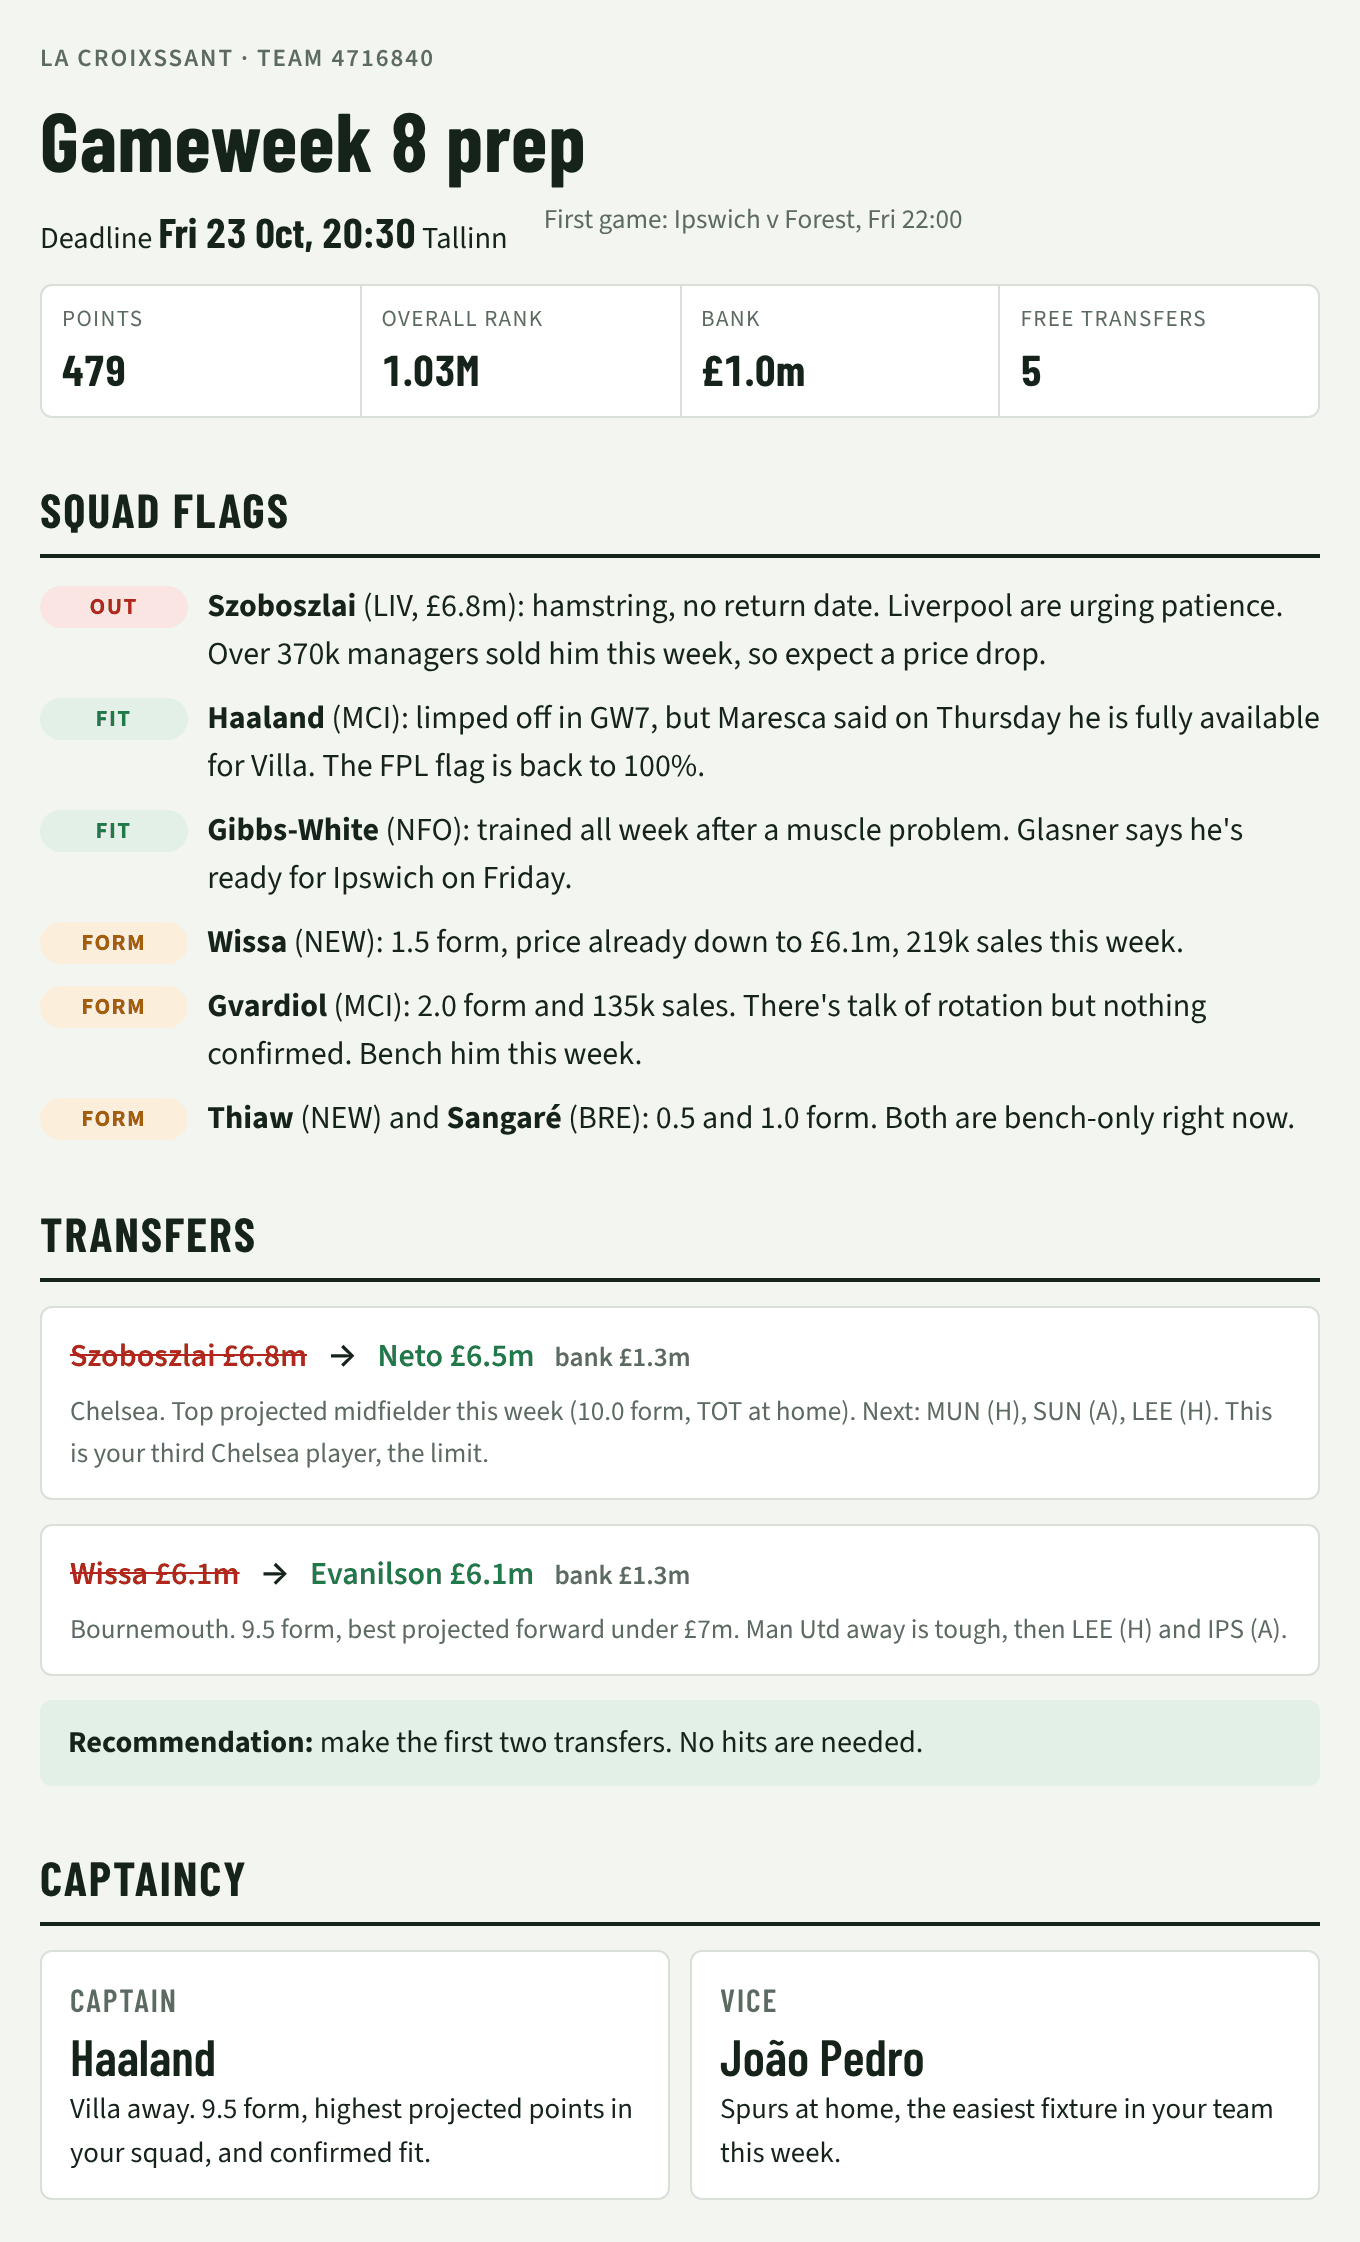
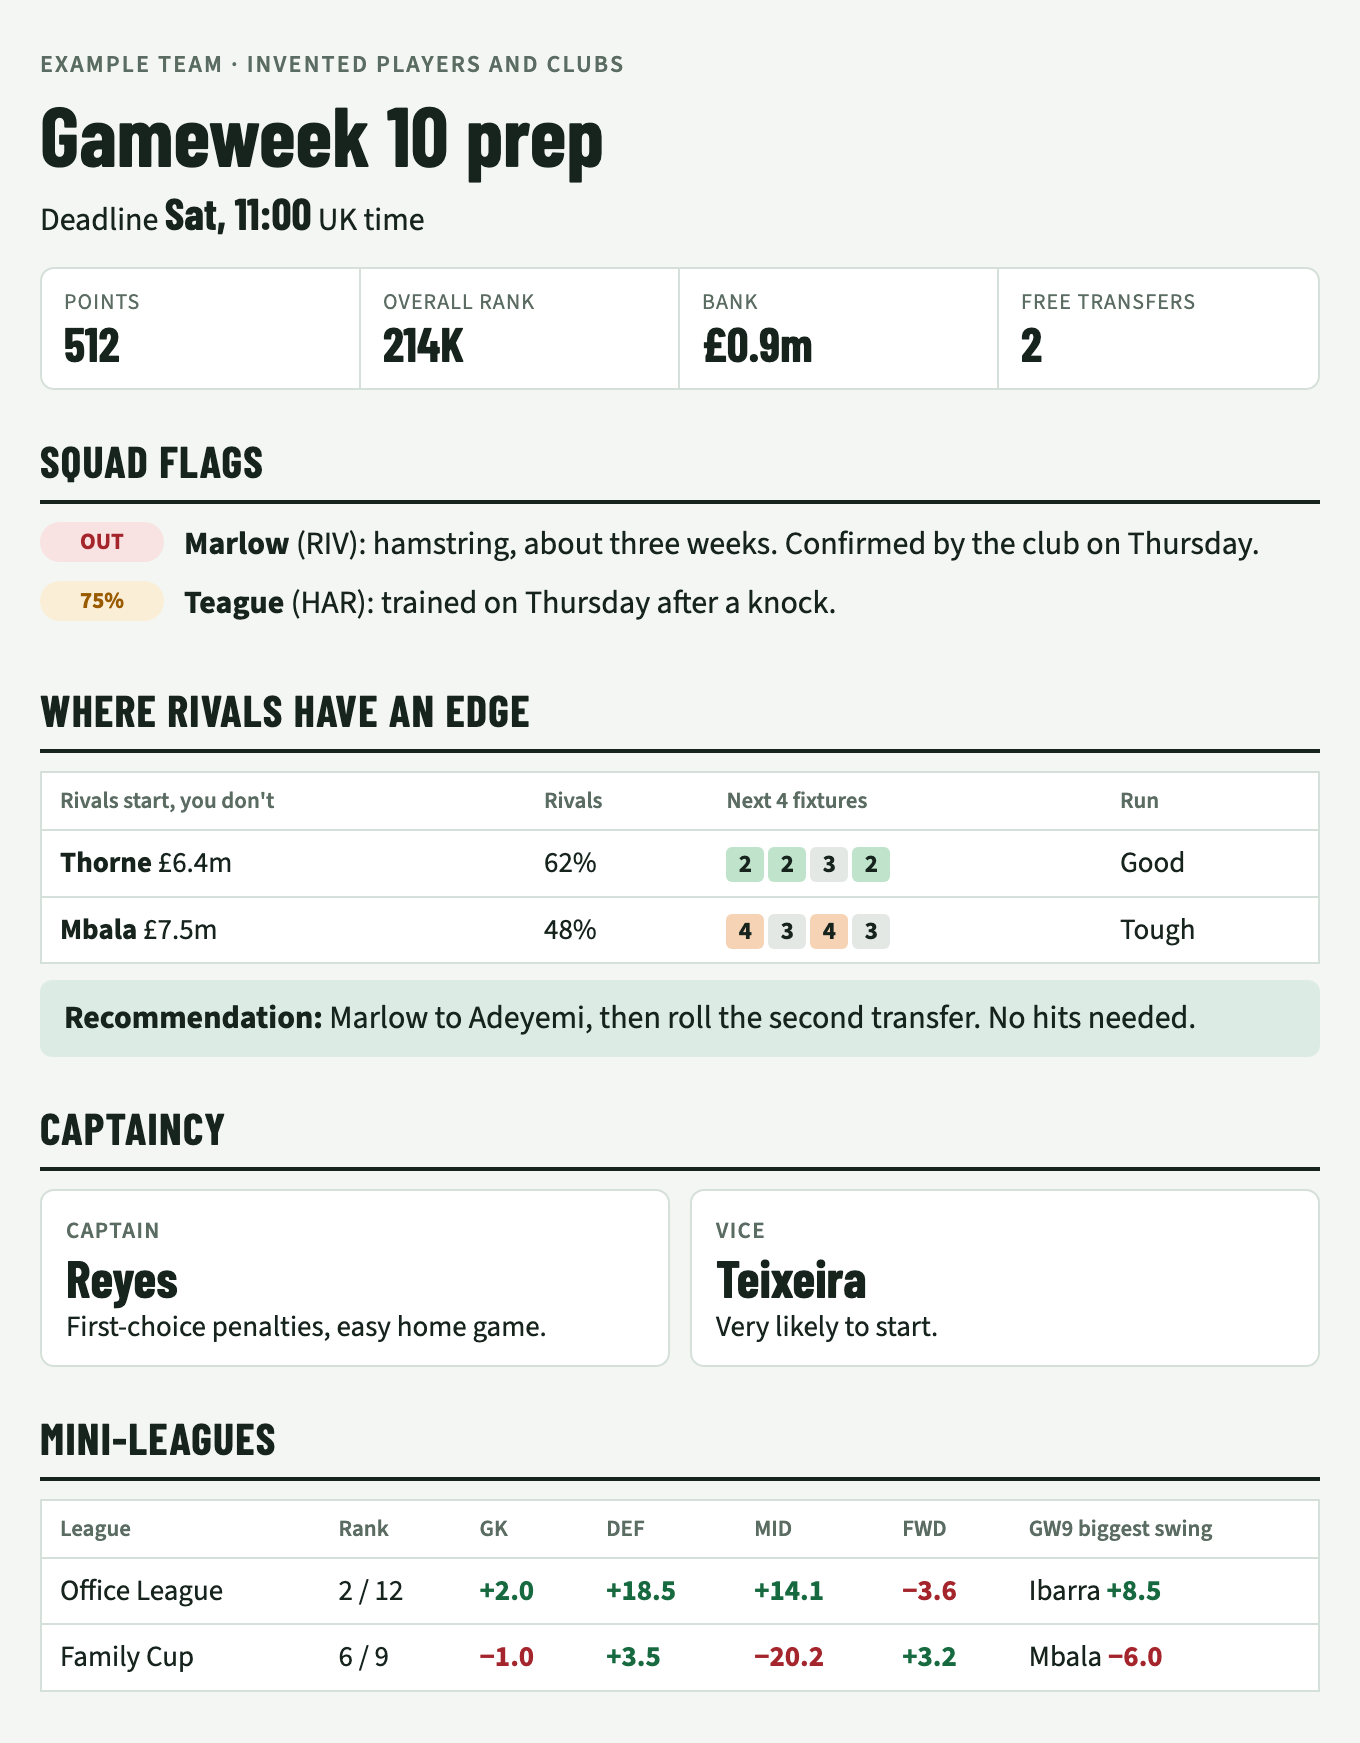
Replace README example image with invented data
The old image showed a real team name and ID, and predated the rival
and mini-league sections.

diff --git a/README.md b/README.md
@@ -2,7 +2,7 @@
 
 A Claude skill that preps your Fantasy Premier League team before every deadline. Give it your team ID and it tells you who's injured, who to bring in, who to captain and who to bench.
 
-<p align="center"><img src="docs/example-brief.png" alt="Example brief for Gameweek 8: squad flags, two suggested transfers and captain picks" width="480"></p>
+<p align="center"><img src="docs/example-brief.png" alt="Example brief with invented players: squad flags, where rivals have an edge, captain picks and mini-league positions" width="480"></p>
 
 ## Try it in 2 minutes
 
